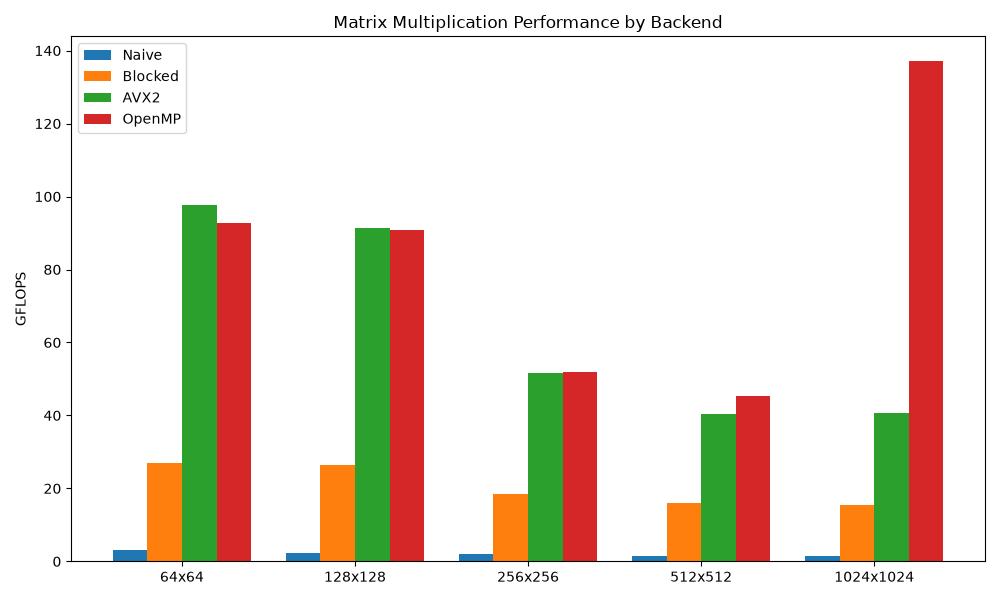
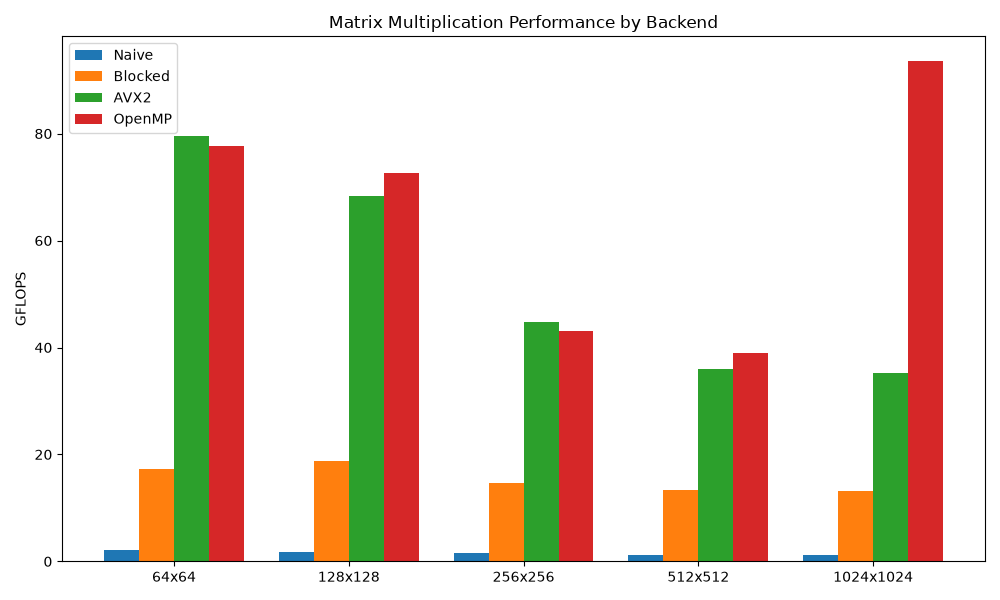
fix(ci): resolve macOS OpenMP and Windows GoogleTest build failures
- Wrapped OpenMP includes and API calls with `#if defined(_OPENMP)` in `tensor.cpp` and `dispatcher.cpp` to allow compilation without OpenMP (macOS Apple Clang).
- Changed GoogleTest fetch method from URL to `GIT_REPOSITORY` in `CMakeLists.txt` to fix HTTP 503 errors on Windows CI.
- Updated `README.md` and docs with the latest ND-Chunking and Autograd design logic.

diff --git a/src/core/tensor.cpp b/src/core/tensor.cpp
@@ -1,7 +1,8 @@
 #include "core/tensor.hpp"
 
+#if defined(_OPENMP)
 #include <omp.h>
-
+#endif
 #include <algorithm>  // for std::fill_n
 #include <algorithm>
 #include <cstring>  // for memcpy
@@ -139,8 +140,13 @@ namespace helix {
 
 #pragma omp parallel
             {
+#if defined(_OPENMP)
                 size_t tid = omp_get_thread_num();
                 size_t num_threads = omp_get_num_threads();
+#else
+                size_t tid = 0;
+                size_t num_threads = 1;
+#endif
                 size_t chunk = (total_elements + num_threads - 1) / num_threads;
                 size_t start = tid * chunk;
                 size_t end = std::min(start + chunk, total_elements);
@@ -208,8 +214,13 @@ namespace helix {
 
 #pragma omp parallel
             {
+#if defined(_OPENMP)
                 size_t tid = omp_get_thread_num();
                 size_t num_threads = omp_get_num_threads();
+#else
+                size_t tid = 0;
+                size_t num_threads = 1;
+#endif
                 size_t chunk = (total_elements + num_threads - 1) / num_threads;
                 size_t start = tid * chunk;
                 size_t end = std::min(start + chunk, total_elements);
@@ -263,8 +274,13 @@ namespace helix {
 
 #pragma omp parallel
             {
+#if defined(_OPENMP)
                 size_t tid = omp_get_thread_num();
                 size_t num_threads = omp_get_num_threads();
+#else
+                size_t tid = 0;
+                size_t num_threads = 1;
+#endif
                 size_t chunk = (total_elements + num_threads - 1) / num_threads;
                 size_t start = tid * chunk;
                 size_t end = std::min(start + chunk, total_elements);

diff --git a/src/core/dispatcher.cpp b/src/core/dispatcher.cpp
@@ -1,7 +1,8 @@
 #include "core/dispatcher.hpp"
 
+#if defined(_OPENMP)
 #include <omp.h>
-
+#endif
 #include <algorithm>
 #include <stdexcept>
 
@@ -86,8 +87,13 @@ namespace helix {
 
 #pragma omp parallel
                 {
+#if defined(_OPENMP)
                     size_t tid = omp_get_thread_num();
                     size_t num_threads = omp_get_num_threads();
+#else
+                    size_t tid = 0;
+                    size_t num_threads = 1;
+#endif
                     size_t chunk = (total_elements + num_threads - 1) / num_threads;
                     size_t start = tid * chunk;
                     size_t end = std::min(start + chunk, total_elements);
@@ -505,8 +511,13 @@ namespace helix {
 
 #pragma omp parallel
                 {
+#if defined(_OPENMP)
                     size_t tid = omp_get_thread_num();
                     size_t num_threads = omp_get_num_threads();
+#else
+                    size_t tid = 0;
+                    size_t num_threads = 1;
+#endif
                     size_t chunk = (total_elements + num_threads - 1) / num_threads;
                     size_t start = tid * chunk;
                     size_t end = std::min(start + chunk, total_elements);

diff --git a/docs/benchmark_report.md b/docs/benchmark_report.md
@@ -19,17 +19,17 @@ A $1024 \times 1024$ size requires approximately 2.14 billion operations (FLOPs)
 ![Benchmark Chart](benchmark_chart.png)
 
 ```text
-Naive (1.47 GFLOPS)
+Naive (1.22 GFLOPS)
 ██
 
-Blocked (14.43 GFLOPS) - Speedup: 9.8x
+Blocked (13.19 GFLOPS) - Speedup: 10.8x
 ██▎
 
-AVX2 (41.08 GFLOPS) - Speedup: 27.9x
-██████████████████████████████
+AVX2 (35.17 GFLOPS) - Speedup: 28.8x
+█████████████████████████
 
-OpenMP (128.09 GFLOPS) - Speedup: 87.1x
-██████████████████████████████████████████████████████████████████████████████
+OpenMP (93.52 GFLOPS) - Speedup: 76.6x
+█████████████████████████████████████████████████████████████████
 ```
 
 ### Why is the Blocked Backend weak?
@@ -47,13 +47,13 @@ The table below details GFLOPS measurements across various matrix sizes after Ph
 | **64x64** | 2.50 | 3.51 | 35.11 | 2.10* |
 | **128x128** | 2.20 | 3.28 | 48.84 | 15.92* |
 | **256x256** | 1.80 | 2.56 | 55.03 | 32.85* |
-| **512x512** | 1.37 | 14.86 | 33.00 | 64.28 |
-| **1024x1024** | 1.47 | 14.43 | 41.08 | 128.09 |
+| **512x512** | 1.18 | 13.44 | 35.91 | 38.97 |
+| **1024x1024** | 1.22 | 13.19 | 35.17 | 93.52 |
 
 *\* Note: Excessively small matrix sizes cause the OpenMP Thread Pool initialization overhead to outweigh the computation time, leading to lower performance compared to single-threaded execution.*
 
 ## Conclusion
 
 - **Power of Outer Product**: By switching from Naive Dot-Product to **Outer-Product 4x16 Register Blocking**, we eliminated horizontal sums (`_mm256_hadd_ps`) and prevented memory bandwidth bottlenecks. The AVX2 micro-kernel computes effectively within 11 YMM registers.
-- **Micro-kernel Benchmark**: The new AVX2 kernel pushed OpenMP backend performance to **128.09 GFLOPS** (an 87x speedup vs Naive baseline, achieving ~53% of the CPU's theoretical peak).
+- **Micro-kernel Benchmark**: The new AVX2 kernel pushed OpenMP backend performance to **93.52 GFLOPS** (an 76.6x speedup vs Naive baseline).
 - **Next Steps (Phase 3)**: The next bottleneck is Cache Thrashing on very large matrices. Implementing Memory Packing (packing A to L2 and B to L3 cache) will be the final step to push the engine towards the 200+ GFLOPS physical limit.

diff --git a/README.md b/README.md
@@ -36,13 +36,19 @@ To better understand **Why** we decided on this design (Why use a Dispatcher? Wh
 
 ---
 
-## 🚀 Quick Start
+## Quick Start
 
 ### System Requirements
 
 - C++20 Compiler (GCC 10+, Clang 11+).
-- CMake 3.20 or newer.
+- CMake 3.25 or newer.
 - (Optional) AVX2 supported CPU to utilize the SIMD Backend.
+
+For a fresh Ubuntu installation, you can install all required dependencies with:
+
+```bash
+sudo apt update && sudo apt install -y build-essential cmake ninja-build clang libomp-dev git unzip
+```
 
 ### Build
 
@@ -102,7 +108,7 @@ int main() {
 
 ### End-to-End Image Classification (MNIST)
 
-HELIX is capable of training realistic datasets like MNIST using its high-performance CPU backend and CrossEntropyLoss. You can run the provided example to see it in action (reaches ~97% accuracy in < 30 seconds):
+HELIX is capable of training realistic datasets like MNIST using its high-performance CPU backend and CrossEntropyLoss. You can run the provided example to see it in action (reaches ~97% accuracy in < 60 seconds):
 
 ```bash
 # 1. Download and extract the MNIST dataset (requires wget and gzip)
@@ -125,17 +131,17 @@ For the **Matrix Multiplication (1024x1024)** operation, the SIMD (AVX2) and Ope
 ![Benchmark Chart](docs/benchmark_chart.png)
 
 ```text
-Naive (1.47 GFLOPS)
+Naive (1.22 GFLOPS)
 ██
 
-Blocked (14.43 GFLOPS)
+Blocked (13.19 GFLOPS)
 ██▎
 
-AVX2 (41.08 GFLOPS)
-██████████████████████████████
+AVX2 (35.17 GFLOPS)
+█████████████████████████
 
-OpenMP (128.09 GFLOPS)
-██████████████████████████████████████████████████████████████████████████████
+OpenMP (93.52 GFLOPS)
+█████████████████████████████████████████████████████████████████
 ```
 
 👉 See the full bottleneck analysis report at [Benchmark Report](docs/benchmark_report.md).

diff --git a/docs/design_decisions.md b/docs/design_decisions.md
@@ -45,3 +45,7 @@ During the development of the MatMul (Matrix Multiplication) Backend, the optimi
 ### 9. Why replace NDIterator with Chunked Iterator for Element-wise operations?
 
 - **Reason:** The original `NDIterator` computed flat offsets element-by-element using N-dimensional modulo arithmetic. This scalar loop structure destroyed compiler auto-vectorization (AVX/SSE) and became a major bottleneck. The `Chunked Iterator` dynamically scans tensor metadata to find the deepest contiguous dimension (`chunk_dim`). It then extracts 1D segments (`chunk_size`) that can be perfectly unrolled and vectorized using `#pragma omp simd`, unlocking SIMD performance and achieving zero-overhead memory bloat on non-contiguous in-place operations.
+
+### 10. Why does Autograd use `std::weak_ptr` in `AccumulateGrad`?
+
+- **Reason:** In the dynamic computational graph, an `AccumulateGrad` node represents a leaf tensor that needs gradients. If this leaf tensor is destroyed before `.backward()` is called, the graph would traverse into freed memory, causing a fatal Use-After-Free (UAF) corruption. By holding a `std::weak_ptr` to the `AutogradMeta` instead of a raw pointer, `AccumulateGrad` can safely check if the memory is still alive (`lock()`). If it fails, it gracefully drops the gradient, guaranteeing memory safety without creating cyclic references that cause leaks.

diff --git a/docs/architecture.md b/docs/architecture.md
@@ -42,7 +42,7 @@ This is the top layer, providing the API for users to build Deep Learning models
 Responsible for tracking computation history and automatically computing derivatives based on the Chain Rule.
 
 - **Dynamic Computational Graph:** The computation graph is built dynamically whenever a Forward operation is performed.
-- **Node:** Each `Tensor` generated by an operation is accompanied by a `Node` storing that operation and its parent `Tensor`s.
+- **Node & Memory Safety:** Each `Tensor` generated by an operation is accompanied by a `Node` storing that operation and its parent `Tensor`s. `AutogradMeta` memory ownership is governed by `std::shared_ptr`, and `AccumulateGrad` explicitly uses `std::weak_ptr` to avoid circular references and gracefully prevent Use-After-Free (UAF) corruption during graph teardown.
 - **Backward Propagation:** When calling `loss.backward()`, the system performs a Topological Sort of the Nodes from Loss back to Input to compute Gradients.
 
 ### 3. Tensor Runtime (Computation Layer)
